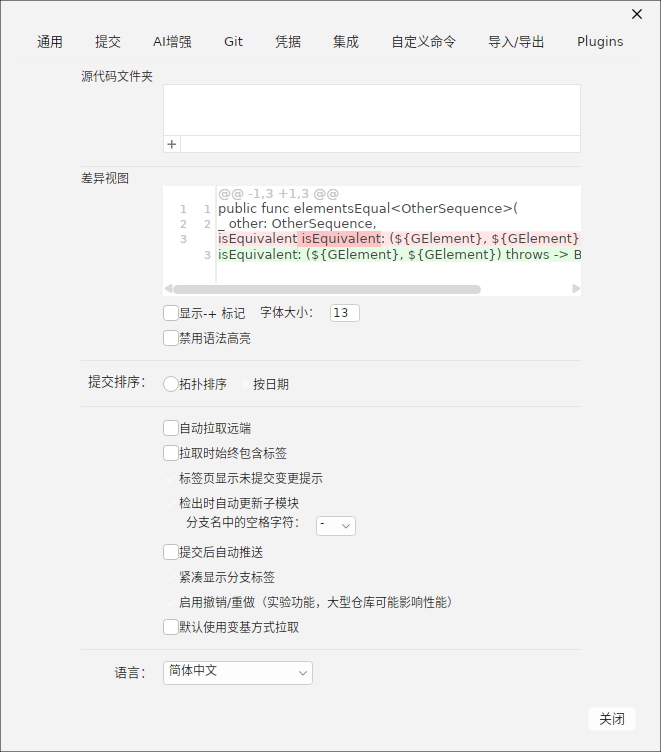
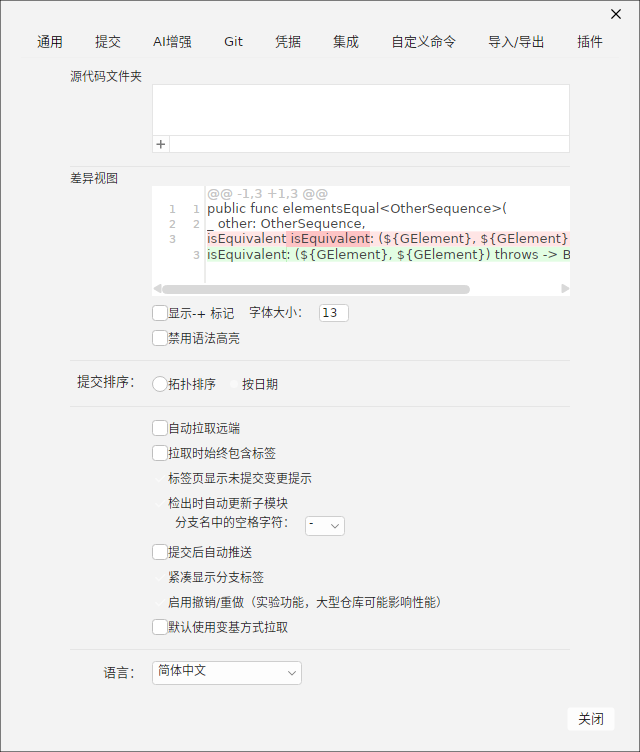
fix(i18n)+docs: 「插件」标签页标题本地化，手册补齐设置页逐页截图（v5.0.1）
- 语言包补全 "Plugins" 译文（zh-Hans 插件 / zh-Hant 外掛 / ja プラグイン / ko 플러그인 /
  fr Extensions / de Erweiterungen / es Complementos；English 为源语言无需条目），
  偏好设置「插件」标签页标题随界面语言即时本地化。
- 用户手册第 21 章新增「各标签页一览」：为通用以外的 8 个设置标签页（提交 / AI 增强 /
  Git / 凭据 / 集成 / 自定义命令 / 导入导出 / 插件）各配一张简体中文截图；统一标签页清单
  （补「凭据」页、修正「AI 增强」命名）。
- ManualAgentC_ChaptersTests.Ch21_Preferences 逐标签页切换并截图（新增 8 张）。
- RELEASE_NOTE / 手册 index 同步更新说明。

diff --git a/docs/manual/ch-21-preferences.html b/docs/manual/ch-21-preferences.html
@@ -23,17 +23,19 @@
   <p>「偏好设置」集中管理 ForkPlus 的全局配置，通过「偏好设置」菜单打开。窗口顶部以多个标签页组织设置项，改动即时生效。本手册重点介绍其中的<strong>切换界面语言</strong>与<strong>切换主题</strong>。</p>
 
   <h2>设置标签页</h2>
-  <p>偏好设置窗口包含多个标签页，可按功能域快速定位：</p>
+  <p>偏好设置窗口共 <strong>9 个标签页</strong>，可按功能域快速定位：</p>
   <ul>
     <li><strong>通用（General）</strong>：界面语言、差异视图外观、提交排序、Git 行为（自动拉取、提交后推送等）。</li>
-    <li><strong>提交（Commit）</strong>：提交相关默认行为。</li>
-    <li><strong>Git</strong>：Git 核心参数与行为。</li>
-    <li><strong>集成（Integration）</strong>：与外部工具/服务的集成。</li>
+    <li><strong>提交（Commit）</strong>：提交相关默认行为（拼写检查、提交信息长度提醒等）。</li>
+    <li><strong>AI 增强（AI Enhancement）</strong>：AI 提交/审查/开发助手服务配置。</li>
+    <li><strong>Git</strong>：Git 核心参数与行为、全局身份、外部 git 实例。</li>
+    <li><strong>凭据（Credentials）</strong>：管理已记忆的账号与凭据。</li>
+    <li><strong>集成（Integration）</strong>：与外部工具/服务的集成（如问题跟踪器）。</li>
     <li><strong>自定义命令（Custom Commands）</strong>：管理自定义的 Git 命令菜单。</li>
-    <li><strong>AI 增强（AI）</strong>：AI 提交/审查/开发助手服务配置。</li>
     <li><strong>导入/导出（Import/Export）</strong>：设置与快捷键的导入导出。</li>
     <li><strong>插件（Plugins）</strong>：查看/启用/禁用对比视图插件、重新加载插件（无需重启，详见 <a href="ch-26-plugin-mechanism.html">第 26 章</a>）。</li>
   </ul>
+  <p>各标签页界面见下文「<a href="#tab-overview">各标签页一览</a>」。</p>
 
   <figure>
     <img src="screenshots/21-preferences/01-preferences-general.png" alt="偏好设置 - 通用页" loading="lazy">
@@ -89,6 +91,49 @@
   </figure>
 
   <div class="tip"><strong>小贴士：</strong>主题选择会持久化，并在新开窗口/标签页中保持一致。若希望跟随系统外观，可在主题菜单中选用「随系统」的选项。</div>
+
+  <h2 id="tab-overview">各标签页一览</h2>
+  <p>下面按标签页顺序展示 9 个设置页的界面（简体中文）。「通用」页见上文图 21-1，其余各页如下：</p>
+
+  <figure>
+    <img src="screenshots/21-preferences/05-commit-tab.png" alt="偏好设置 - 提交页" loading="lazy">
+    <figcaption>图 21-6　「提交（Commit）」页：提交信息拼写检查、长度提醒等提交相关默认行为</figcaption>
+  </figure>
+
+  <figure>
+    <img src="screenshots/21-preferences/06-ai-review-tab.png" alt="偏好设置 - AI 增强页" loading="lazy">
+    <figcaption>图 21-7　「AI 增强（AI Enhancement）」页：AI 提交/审查/开发助手服务地址、重试与超时、自定义技能</figcaption>
+  </figure>
+
+  <figure>
+    <img src="screenshots/21-preferences/07-git-tab.png" alt="偏好设置 - Git 页" loading="lazy">
+    <figcaption>图 21-8　「Git」页：全局身份（user.name/email）、外部 git 实例选择与 AI 归属开关</figcaption>
+  </figure>
+
+  <figure>
+    <img src="screenshots/21-preferences/08-credentials-tab.png" alt="偏好设置 - 凭据页" loading="lazy">
+    <figcaption>图 21-9　「凭据（Credentials）」页：管理 ForkPlus 记忆的账号与访问凭据</figcaption>
+  </figure>
+
+  <figure>
+    <img src="screenshots/21-preferences/09-integration-tab.png" alt="偏好设置 - 集成页" loading="lazy">
+    <figcaption>图 21-10　「集成（Integration）」页：与外部工具/服务（如问题跟踪器）的集成配置</figcaption>
+  </figure>
+
+  <figure>
+    <img src="screenshots/21-preferences/10-custom-commands-tab.png" alt="偏好设置 - 自定义命令页" loading="lazy">
+    <figcaption>图 21-11　「自定义命令（Custom Commands）」页：新增/编辑/删除自定义 Git 命令菜单</figcaption>
+  </figure>
+
+  <figure>
+    <img src="screenshots/21-preferences/11-import-export-tab.png" alt="偏好设置 - 导入导出页" loading="lazy">
+    <figcaption>图 21-12　「导入/导出（Import/Export）」页：导出/导入设置与快捷键</figcaption>
+  </figure>
+
+  <figure>
+    <img src="screenshots/21-preferences/12-plugins-tab.png" alt="偏好设置 - 插件页" loading="lazy">
+    <figcaption>图 21-13　「插件（Plugins）」页：查看插件名称/版本/描述/匹配扩展名与优先级，启用禁用与「重新加载插件」；图中内置图片对比与 Hex 对比插件均为 v1.0.0</figcaption>
+  </figure>
 
   <h2>其他通用设置示例</h2>
   <ul>

diff --git a/docs/manual/index.html b/docs/manual/index.html
@@ -21,6 +21,7 @@
   <h2>v5.0.1 更新</h2>
   <ul>
     <li><strong>插件管理器</strong>：偏好设置新增「<strong>插件</strong>」页，集中展示每个对比视图插件的<strong>名称、版本号、描述</strong>、匹配扩展名与优先级，可<strong>即时启用/禁用</strong>（禁用仅退出路由、状态持久化）并<strong>重新加载插件</strong>——放入或删除插件 DLL 后<strong>无需重启</strong> ForkPlus 即可生效。内置图片对比与 Hex 对比插件版本号定为 <strong>1.0.0</strong> 并补充中文名称/描述（元数据国际化留待后续版本）。详见<a href="ch-26-plugin-mechanism.html">第 26 章 · 对比视图插件机制</a>。</li>
+    <li><strong>文档补齐</strong>：偏好设置「<strong>插件</strong>」标签页标题已随界面语言本地化（8 种语言）；<a href="ch-21-preferences.html">第 21 章 · 偏好设置</a>新增「各标签页一览」，为全部设置标签页逐页配图。</li>
   </ul>
 
   <h2>v5.0.0 更新</h2>

diff --git a/src/ForkPlus.Tests/ManualAgentC_ChaptersTests.cs b/src/ForkPlus.Tests/ManualAgentC_ChaptersTests.cs
@@ -600,6 +600,27 @@ namespace ForkPlus.Tests
 							Assert.Equal(PreferencesLocalization.Translate("General", "zh-Hans"),
 								window.GeneralTabItem.Header);
 							ManualScreenshotHelper.Snap(window, "01-preferences-general", "21-preferences");
+
+							// ----- 逐标签页截图（简体中文界面，供手册「设置标签页」逐页配图）-----
+							// 顺序与 XAML 中 PreferencesTabControl 的标签页一致；General 已由
+							// 01-preferences-general 覆盖，此处从 Commit 起逐个切换并截图。
+							var tabShots = new (string Name, TabItem Tab)[]
+							{
+								("05-commit-tab", window.CommitTabItem),
+								("06-ai-review-tab", window.AiReviewTabItem),
+								("07-git-tab", window.GitTabItem),
+								("08-credentials-tab", window.CredentialsTabItem),
+								("09-integration-tab", window.IntegrationTabItem),
+								("10-custom-commands-tab", window.CustomCommandsTab),
+								("11-import-export-tab", window.ImportExportTab),
+								("12-plugins-tab", window.PluginsTabItem)
+							};
+							foreach (var shot in tabShots)
+							{
+								window.PreferencesTabControl.SelectedItem = shot.Tab;
+								RunJobs();
+								ManualScreenshotHelper.Snap(window, shot.Name, "21-preferences");
+							}
 						}
 						finally
 						{

diff --git a/RELEASE_NOTE.md b/RELEASE_NOTE.md
@@ -17,6 +17,11 @@
 ### 改进
 
 - **插件加载失败不再连坐**：单个 DLL 加载/实例化失败时在插件页单独标记（含失败原因），不影响其他插件与启动流程。
+- **「插件」标签页国际化**：补全各语言包中「Plugins」译文（English 为源语言无需额外条目；简体中文「插件」、繁體中文「外掛」、日本語「プラグイン」、한국어「플러그인」、Français「Extensions」、Deutsch「Erweiterungen」、Español「Complementos」），切换界面语言后标签页标题即时本地化。
+
+### 文档
+
+- **用户手册第 21 章补齐设置页逐页截图**：新增「各标签页一览」，为通用以外的 8 个设置标签页（提交 / AI 增强 / Git / 凭据 / 集成 / 自定义命令 / 导入导出 / 插件）各配一张简体中文界面截图，并统一标签页清单（补上「凭据」页、修正「AI 增强」命名）。
 
 ### 测试
 
